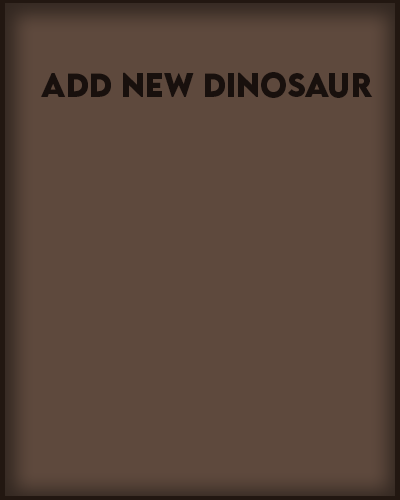
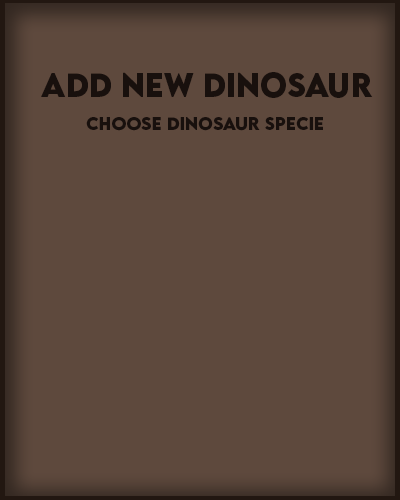
:sparkles: feat: Integrate Add Dinosaur

Changed region(s): [[0.21, 0.21, 0.81, 0.27]]

diff --git a/src/views/panels/AddDinoPanel.java b/src/views/panels/AddDinoPanel.java
@@ -1,6 +1,8 @@
 package views.panels;
 
+import controllers.DinosaurController;
 import views.utils.CustomButton;
+import views.utils.CustomDialog;
 import views.utils.ImageBackgroundPanel;
 
 import javax.swing.*;
@@ -14,8 +16,10 @@ public class AddDinoPanel extends JFrame {
     private int mouseX, mouseY;
 
     private JComboBox<DinosaurSpecies> speciesComboBox;
+    private DinosaurController dinosaurController;
 
     public AddDinoPanel(JFrame parentFrame) {
+        dinosaurController = new DinosaurController();
         setUndecorated(true);
         setSize(400, 500);
         setDefaultCloseOperation(JFrame.DISPOSE_ON_CLOSE);
@@ -73,15 +77,15 @@ public class AddDinoPanel extends JFrame {
         backgroundPanel.add(layeredPane);
 
         // Combbox
-        configFieldWithLabel(layeredPane, "SPECIES:", 175, 110, 100, 30, 16);
+        configFieldWithLabel(layeredPane, "SPECIES:", 170, 160, 100, 30, 16);
 
         ImageIcon speciesFieldBg = new ImageIcon("src/resources/utils/customField.png");
         JLabel speciesFieldBackground = new JLabel(speciesFieldBg);
-        speciesFieldBackground.setBounds(74, 140, 266, 47);
+        speciesFieldBackground.setBounds(74, 190, 266, 47);
         layeredPane.add(speciesFieldBackground, JLayeredPane.DEFAULT_LAYER);
 
         speciesComboBox = new JComboBox<>(DinosaurSpecies.values());
-        speciesComboBox.setBounds(76, 140, 262, 47);
+        speciesComboBox.setBounds(76, 190, 262, 47);
         speciesComboBox.setFont(new Font("Arial", Font.BOLD, 12));
         speciesComboBox.setBackground(new Color(255, 255, 255, 100));
 
@@ -89,11 +93,11 @@ public class AddDinoPanel extends JFrame {
 
         CustomButton submitButton = new CustomButton(
                 "src/resources/buttons/submitButton.png",
-                116,
-                370,
+                120,
+                270,
                 165,
                 62,
-                e -> JOptionPane.showMessageDialog(this, "Dino Added!"),
+                e -> addDino(),
                 Cursor.getPredefinedCursor(Cursor.HAND_CURSOR)
         );
 
@@ -102,7 +106,7 @@ public class AddDinoPanel extends JFrame {
         add(backgroundPanel);
         setVisible(true);
     }
-    
+
     private void configFieldWithLabel(JLayeredPane panel, String labelText, int x, int y, int width, int height, int fontSize) {
         JLabel label = new JLabel(labelText);
         Color fontColor = new Color(218, 195, 167);
@@ -110,5 +114,21 @@ public class AddDinoPanel extends JFrame {
         label.setFont(new Font("Arial", Font.BOLD, fontSize));
         label.setBounds(x, y, width, height);
         panel.add(label, JLayeredPane.PALETTE_LAYER);
+    }
+
+    private void addDino(){
+        DinosaurSpecies species = (DinosaurSpecies) speciesComboBox.getSelectedItem();
+
+        if (species != null){
+            try{
+                dinosaurController.createDinosaur(species.name());
+                CustomDialog.showMessage("Dinosaur added!", JOptionPane.INFORMATION_MESSAGE);
+            } catch (Exception e){
+                CustomDialog.showMessage("Species not found", JOptionPane.ERROR_MESSAGE);
+            }
+        }
+        else {
+            CustomDialog.showMessage("Please select a species", JOptionPane.ERROR_MESSAGE);
+        }
     }
 }

diff --git a/src/repositories/DinosaurRepositoryImpl.java b/src/repositories/DinosaurRepositoryImpl.java
@@ -26,7 +26,7 @@ public class DinosaurRepositoryImpl implements IDinosaurRepository {
 
         String dietType = DinosaurSpecies.valueOf(species).getDiet();
 
-        String createDinosaurQuery = "INSERT INTO dinosaur (species, diet_type, enclosure_id) VALUES (?, ?, ?)";
+        String createDinosaurQuery = "INSERT INTO dinosaur (species, diet_type) VALUES (?, ?)";
 
         try {
 
